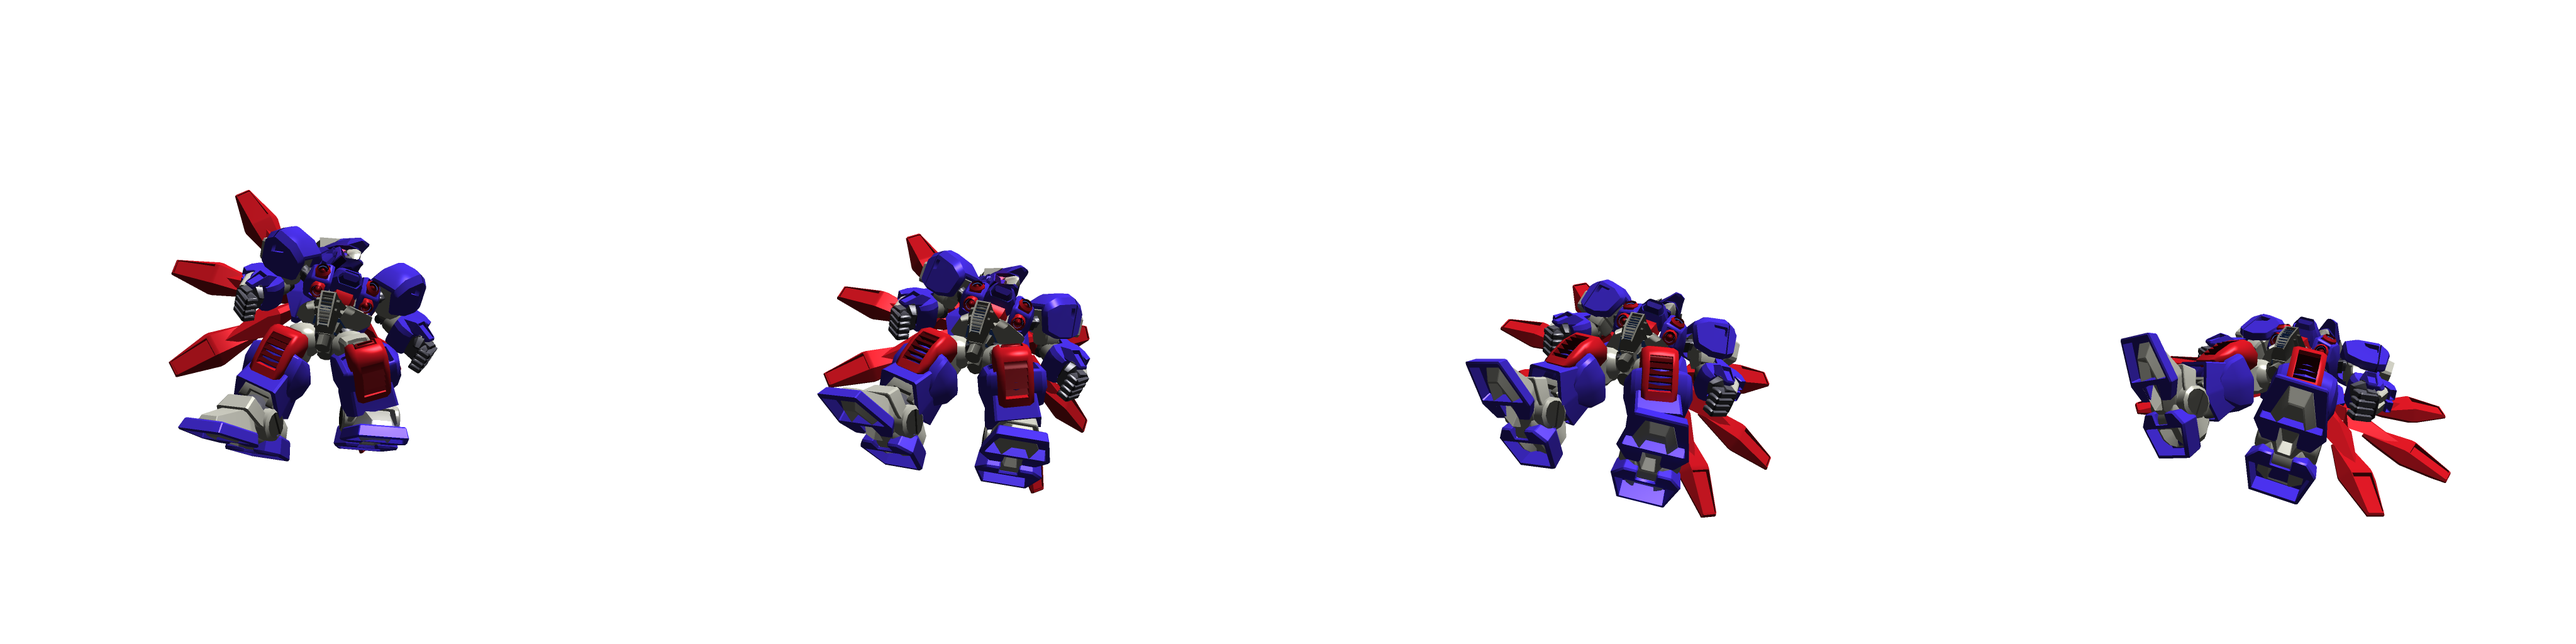
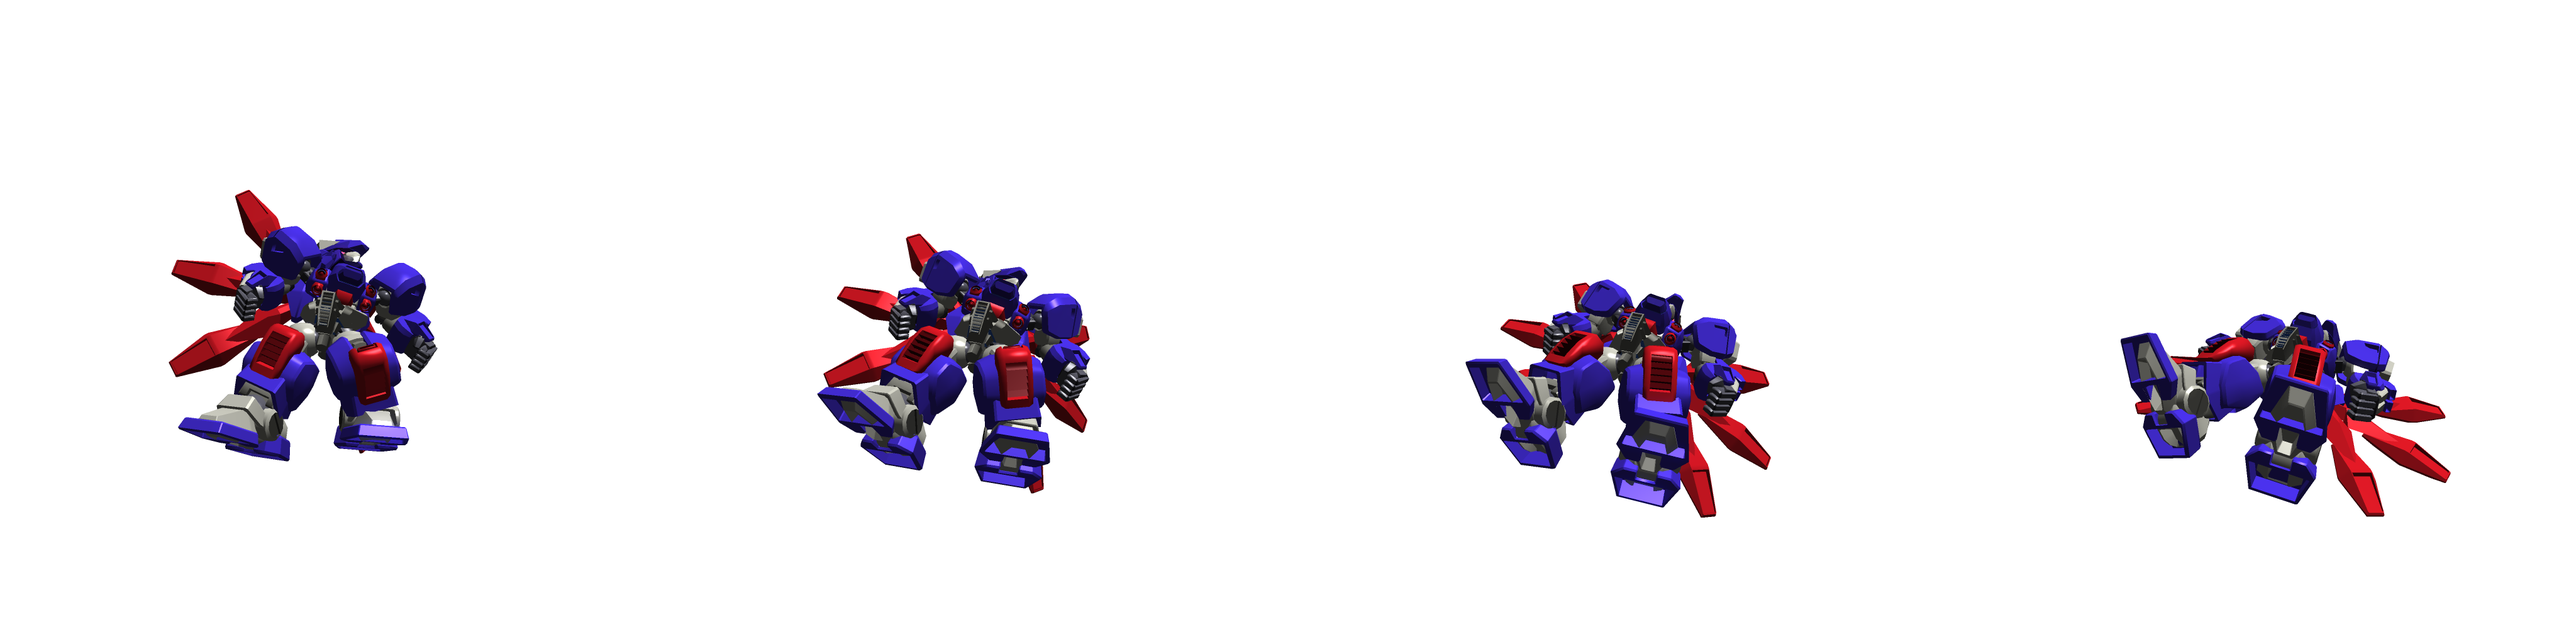
ダメージモーションを調整した

diff --git a/src/js/game-object/armdozer/wing-dozer/animation/knock-back-to-stand.js b/src/js/game-object/armdozer/wing-dozer/animation/knock-back-to-stand.js
@@ -4,17 +4,20 @@ import {Animate} from "../../../../animation/animate";
 import {process} from "../../../../animation/process";
 import {tween} from "../../../../animation/tween";
 import type {WingDozerModel} from "../model/wing-dozer-model";
+import {WingDozerSounds} from "../sounds/wing-dozer-sounds";
 
 /**
  * ノックバック -> 立ち
  *
  * @param model モデル
+ * @param sounds 音
  * @return アニメーション
  */
-export function knockBackToStand(model: WingDozerModel): Animate {
+export function knockBackToStand(model: WingDozerModel, sounds: WingDozerSounds): Animate {
   return process(() => {
     model.animation.frame = 1;
     model.animation.type = 'KNOCK_BACK';
+    sounds.motor.play();
   })
     .chain(tween(model.animation, t => t.to({frame: 0}, 300)))
     .chain(process(() => {

diff --git a/src/js/game-object/armdozer/wing-dozer/wing-dozer.js b/src/js/game-object/armdozer/wing-dozer/wing-dozer.js
@@ -108,7 +108,7 @@ export class WingDozer implements ArmDozerSprite {
    * @return アニメーション
    */
   knockBackToStand(): Animate {
-    return knockBackToStand(this._model);
+    return knockBackToStand(this._model, this._sounds);
   }
 
   /**
@@ -126,7 +126,7 @@ export class WingDozer implements ArmDozerSprite {
    * @return アニメーション
    */
   guardToStand(): Animate {
-    return knockBackToStand(this._model);
+    return knockBackToStand(this._model, this._sounds);
   }
 
   /**
